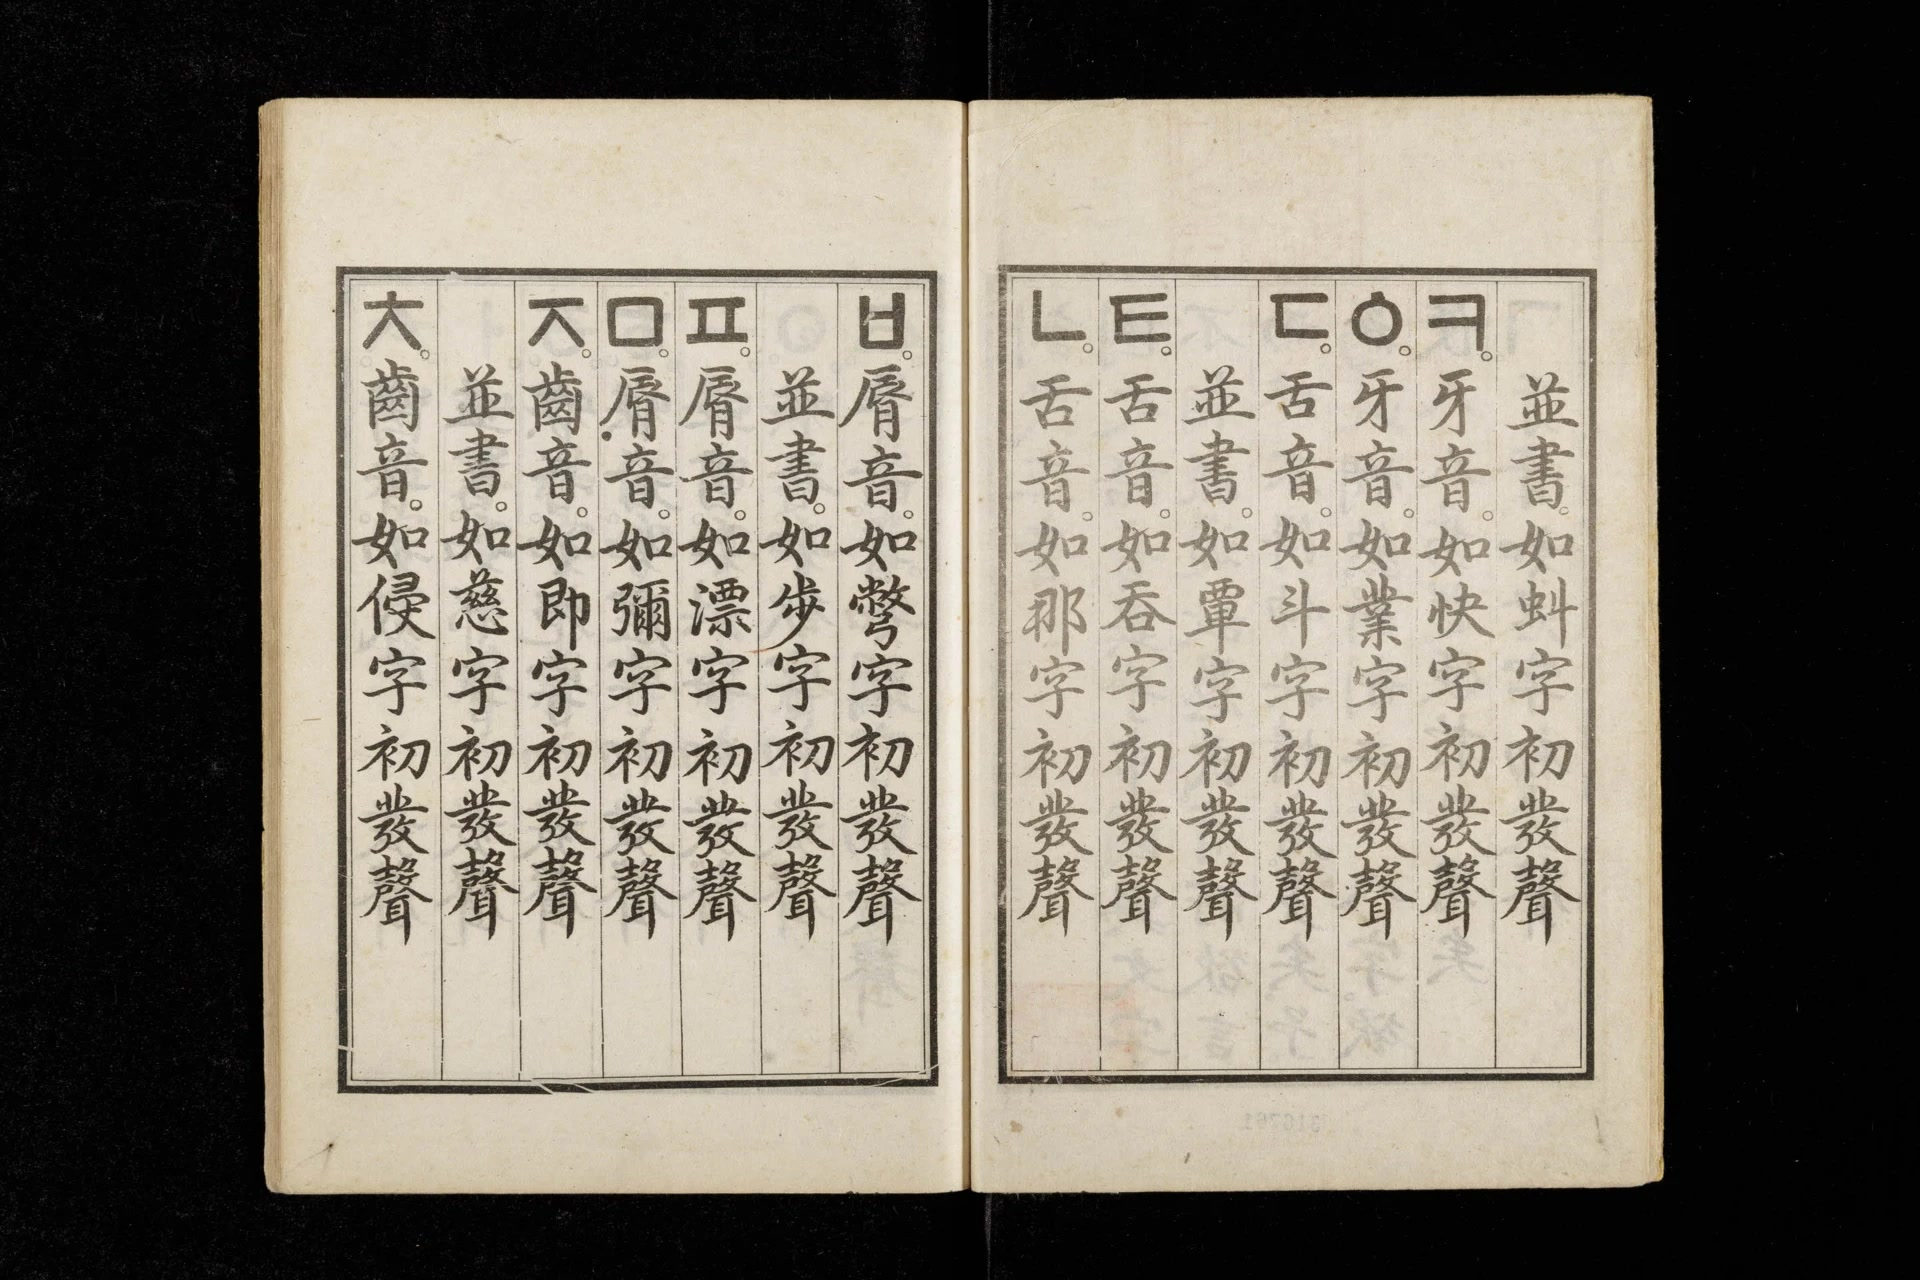
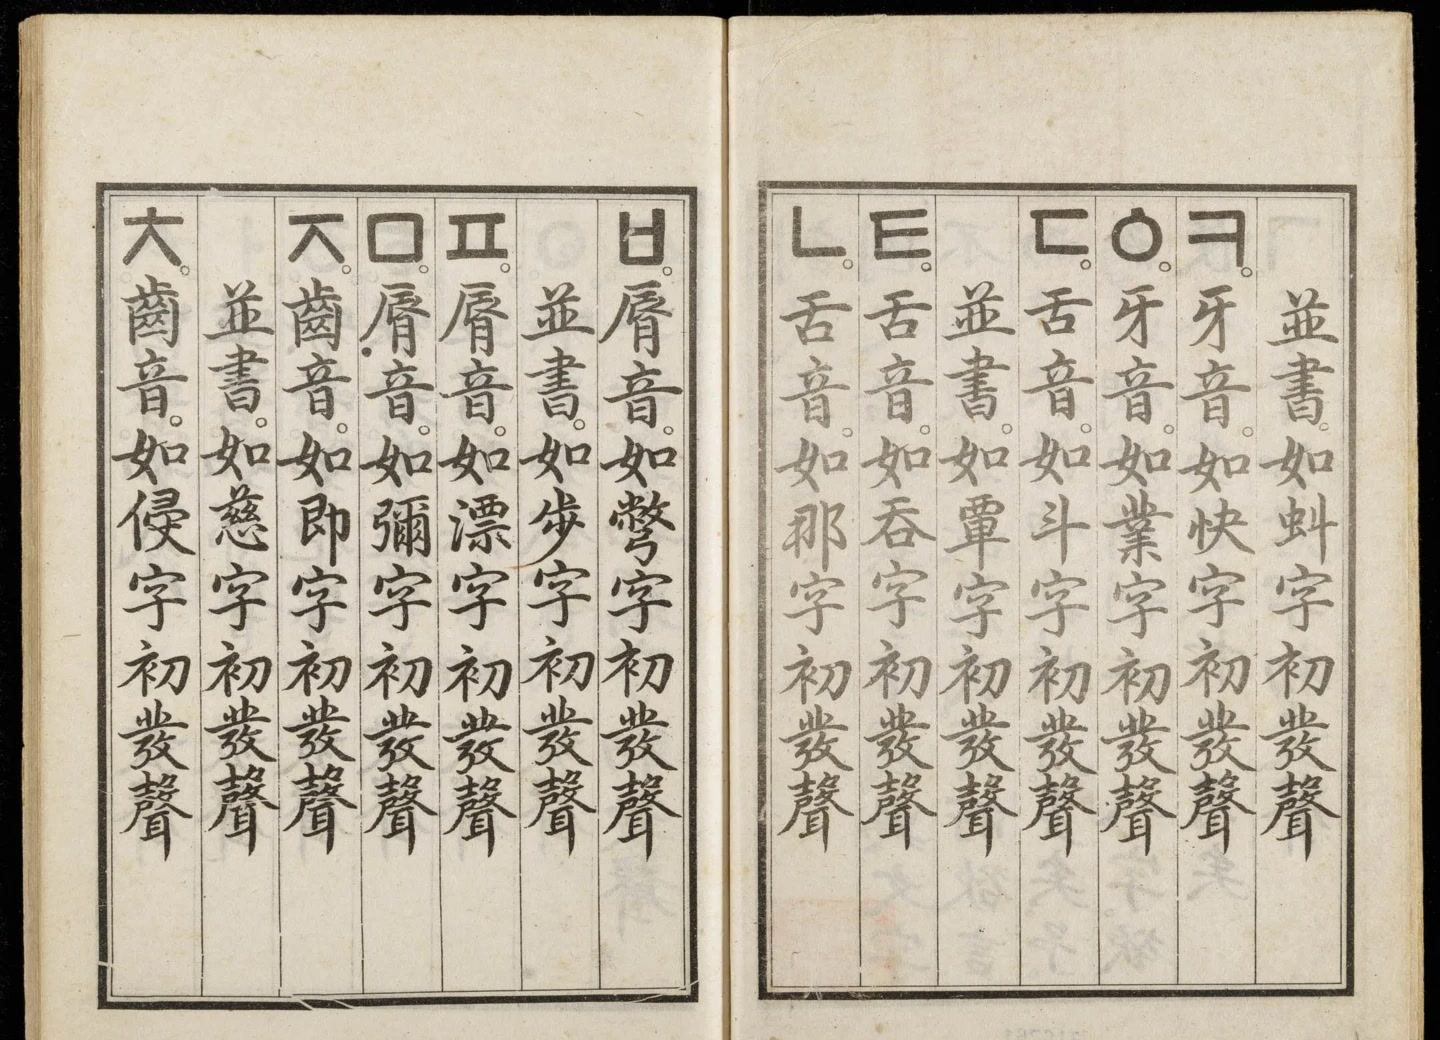
Add remaining images and credits; objects leave after their beat and return as linked thumbnails in the closing shot
Claude-Session: https://claude.ai/code/session_01CL8n9dwqe349YTdkKMM7j8

diff --git a/video/src/scene.js b/video/src/scene.js
@@ -155,22 +155,30 @@ const HEROES = [
   { kind: "stamp", text: "ANNEXED", t0: cue(10), beat: 10, hy: 0.6 },
   { kind: "circle", text: "1919", t0: cue(11) - 0.3, circle: cue(11), beat: 11, hy: 0.56 },
   { kind: "type", text: "JUNE 29, 1987", t0: wt(15, "june") - 0.05, beat: 15, hy: HY_LOW, width: 0.62 },
-  { kind: "word", text: "HAN KANG, 2024", t0: wt(16, "han") - 0.05, beat: 16, hy: HY_MID, width: 0.6, out: END - 0.9 },
+  { kind: "word", text: "HAN KANG, 2024", t0: wt(16, "han") - 0.05, beat: 16, hy: HY_MID, width: 0.6, out: END - 1.2 },
 ];
 // photos (black-and-white polaroids) and documents (paper) that drop onto the map where the story happens.
 // sx, sy: screen position (fractions) at the moment tRef; box: max display size in px at that moment.
 const OBJECTS = [
-  { img: "dolmen", kind: "polaroid", beat: 1, td: 3.0, sx: 0.5, sy: 0.6, box: [600, 400], rot: -2.5, caption: "GOJOSEON", capT: wt(1, "gojoseon") - 0.05 },
-  { img: "stele", kind: "polaroid", beat: 3, td: wt(3, "guang") - 0.1, sx: 0.5, sy: 0.6, box: [330, 440], rot: 2 },
-  { img: "jikji", kind: "polaroid", beat: 6, td: wt(6, "jeekji") - 0.1, sx: 0.5, sy: 0.6, box: [580, 420], rot: -2 },
-  { img: "gyeongbokgung", kind: "polaroid", beat: 7, td: wt(7, "joseon") - 0.2, sx: 0.44, sy: 0.6, box: [600, 400], rot: -3 },
-  { img: "hunminjeongeum", kind: "doc", beat: 8, td: b(8).start + 0.8, sx: 0.57, sy: 0.6, box: [820, 560], rot: 2, overlay: wt(8, "hangul") - 0.1 },
+  { img: "dolmen", kind: "polaroid", beat: 1, td: 3.0, sx: 0.5, sy: 0.6, box: [760, 500], rot: -2.5, caption: "GOJOSEON", capT: wt(1, "gojoseon") - 0.05 },
+  { img: "stele", kind: "polaroid", beat: 3, td: wt(3, "guang") - 0.1, sx: 0.5, sy: 0.6, box: [400, 520], rot: 2 },
+  { img: "jikji", kind: "polaroid", beat: 6, td: wt(6, "jeekji") - 0.1, sx: 0.5, sy: 0.6, box: [720, 500], rot: -2 },
+  { img: "gyeongbokgung", kind: "polaroid", beat: 7, td: wt(7, "joseon") - 0.2, sx: 0.5, sy: 0.6, box: [760, 500], rot: -3 },
+  { img: "hunminjeongeum", kind: "doc", beat: 8, td: b(8).start + 0.8, sx: 0.5, sy: 0.6, box: [860, 600], rot: 2, overlay: wt(8, "hangul") - 0.1 },
   { img: "annexation_treaty", kind: "doc", beat: 10, td: b(10).start + 0.7, sx: 0.5, sy: 0.6, box: [820, 560], rot: -1.5 },
   { img: "declaration", kind: "doc", beat: 11, td: b(11).start + 0.35, sx: 0.5, sy: 0.56, box: [1100, 520], rot: 1, overlay: cue(11) - 0.3 },
   { img: "armistice", kind: "doc", beat: 13, td: wt(13, "armistice") - 0.15, sx: 0.5, sy: 0.6, box: [480, 600], rot: 1.5 },
-  { img: "expressway", kind: "polaroid", beat: 14, td: b(14).start + 0.9, sx: 0.5, sy: 0.6, box: [600, 400], rot: -2, tRef: (b(14).start + b(14).end) / 2 },
+  { img: "expressway", kind: "polaroid", beat: 14, td: b(14).start + 0.9, sx: 0.5, sy: 0.6, box: [760, 500], rot: -2, tRef: (b(14).start + b(14).end) / 2 },
 ];
 for (const o of OBJECTS) o.t1 = b(o.beat).end + 0.5;
+// closing shot: screen position (at the last frame) and the story place each thumbnail links to
+const PL = { ganghwa: [126.49, 37.75], jian: [126.19, 41.13], kaesong: [126.55, 37.97], seoul: [126.98, 37.57] };
+const FINAL = {
+  stele: [0.16, 0.22, PL.jian], dolmen: [0.16, 0.45, PL.ganghwa], jikji: [0.16, 0.68, PL.kaesong], declaration: [0.33, 0.86, PL.seoul],
+  gyeongbokgung: [0.84, 0.22, PL.seoul], hunminjeongeum: [0.84, 0.42, PL.seoul], annexation_treaty: [0.84, 0.62, PL.seoul],
+  expressway: [0.84, 0.83, PL.seoul], armistice: [0.66, 0.86, PL.kaesong],
+};
+const FINAL_T0 = END - 1.65; // as the last hero fades
 for (const h of HEROES) h.t1 = h.out ?? (b(h.beat).end + 0.5);
 const objLive = (o, t) => clamp((t - o.td) / 0.25) * (1 - smooth((t - (o.t1 - 0.45)) / 0.45));
 const heroAlpha = (h, t) => clamp((t - h.t0) / 0.25) * (1 - smooth((t - (h.t1 - 0.45)) / 0.45));
@@ -232,6 +240,11 @@ function drawClip(g, x, y) { // a steel paper clip over the top edge
   g.beginPath(); g.moveTo(7, 88); g.lineTo(7, 16); g.stroke();
   g.restore();
 }
+function anchorFinal(o, i) {
+  const [fx, fy, place] = FINAL[o.img], cam = camera(FINAL_T0 + 0.9), z = W / cam[2];
+  o.fwx = cam[0] + (fx * W - W / 2) / z; o.fwy = cam[1] + (fy * H - H / 2) / z; o.fz = z;
+  o.fk = Math.min(210 / o.cw, 150 / o.ch); o.place = P(...place); o.ft = FINAL_T0 + i * 0.07;
+}
 function anchorObject(o) {
   const tr = o.tRef ?? (o.td + 0.6), cam = camera(tr), z = W / cam[2];
   o.wx = cam[0] + (o.sx * W - W / 2) / z; o.wy = cam[1] + (o.sy * H - H / 2) / z; o.zRef = z;
@@ -250,7 +263,7 @@ export function init() {
   }
   for (let i = 0; i < 46; i++) dust.push({ x: r() * W, y: r() * H, vx: (r() - 0.5) * 6, vy: -2 - r() * 5, s: 0.8 + r() * 2.2, a: 0.05 + r() * 0.16, ph: r() * 6.28, par: 0.08 + r() * 0.2 });
   stampCanvas = makeStamp();
-  for (const o of OBJECTS) { prerenderObject(o); anchorObject(o); }
+  OBJECTS.forEach((o, i) => { prerenderObject(o); anchorObject(o); anchorFinal(o, i); });
 }
 
 function makeStamp() {
@@ -299,8 +312,8 @@ function drawObjects(g, t, cam, dim) {
   const zNow = W / cam[2];
   const rotCam = (0.14 * Math.PI / 180) * noise1(t + 23, 1.4, 2.8, 0.2);
   for (const o of OBJECTS) {
-    if (t < o.td) continue;
-    const p = easeOut((t - o.td) / 0.45), a = clamp((t - o.td) / 0.12);
+    if (t < o.td || t > o.t1) continue;
+    const p = easeOut((t - o.td) / 0.45), a = clamp((t - o.td) / 0.12) * (1 - smooth((t - (o.t1 - 0.45)) / 0.45));
     const [sx, sy] = toScreen(cam, t, o.wx, o.wy);
     const sc = zNow / o.zRef * (1 + 0.1 * (1 - p));
     g.save();
@@ -317,10 +330,31 @@ function drawObjects(g, t, cam, dim) {
       chars.forEach((c, i) => { const ci = clamp((t - o.capT - i * 0.045) / 0.2); if (ci > 0) { g.globalAlpha = a * ci; g.fillText(c, x, -o.ch / 2 + o.capY); } x += ws[i]; });
       g.globalAlpha = a;
     }
-    // darken objects that are not the current hero, and documents under a typed overlay
-    let shade = dim * (1 - objLive(o, t));
+    // darken documents under a typed overlay
+    let shade = 0;
     if (o.overlay) shade = Math.max(shade, 0.6 * clamp((t - o.overlay) / 0.3) * objLive(o, t));
     if (shade > 0.001) { g.globalAlpha = shade * 0.62; g.fillStyle = "rgb(8,20,30)"; g.fillRect(-o.cw / 2 - 2, -o.ch / 2 - 2, o.cw + 4, o.ch + 4); }
+    g.restore();
+  }
+}
+
+function drawFinal(g, t, cam) {
+  if (t < FINAL_T0) return;
+  const zNow = W / cam[2];
+  let heroDim = 0; for (const h of HEROES) heroDim = Math.max(heroDim, heroAlpha(h, t));
+  for (const o of OBJECTS) {
+    if (t < o.ft) continue;
+    const p = easeOut((t - o.ft) / 0.4), a = clamp((t - o.ft) / 0.2);
+    const [sx, sy] = toScreen(cam, t, o.fwx, o.fwy), [px, py] = toScreen(cam, t, ...o.place);
+    // red connector to the place, drawn on
+    const lp = easeOut((t - o.ft - 0.15) / 0.5);
+    if (lp > 0) { g.save(); g.strokeStyle = RED; g.globalAlpha = 0.75 * (1 - 0.6 * heroDim); g.lineWidth = 2; g.beginPath(); g.moveTo(sx, sy); g.lineTo(lerp(sx, px, lp), lerp(sy, py, lp)); g.stroke(); g.restore(); }
+    const sc = (zNow / o.fz) * o.fk * (1 + 0.15 * (1 - p));
+    g.save(); g.translate(sx, sy - 20 * (1 - p)); g.rotate(o.rot * Math.PI / 180); g.scale(sc, sc);
+    g.globalAlpha = a; g.shadowColor = "rgba(0,4,8,0.6)"; g.shadowBlur = 14 / sc * 0.5; g.shadowOffsetY = 6 / sc * 0.5;
+    g.drawImage(o.canvas, -o.cw / 2 - o.pad, -o.ch / 2 - o.pad, o.canvas.width / o.Q, o.canvas.height / o.Q);
+    g.shadowColor = "transparent";
+    if (heroDim > 0) { g.globalAlpha = 0.55 * heroDim; g.fillStyle = "rgb(8,20,30)"; g.fillRect(-o.cw / 2 - 2, -o.ch / 2 - 2, o.cw + 4, o.ch + 4); }
     g.restore();
   }
 }
@@ -410,6 +444,7 @@ function drawWorld(g, t) {
   const dim = dimAt(t);
   if (dim > 0) { g.fillStyle = `rgba(8,20,30,${0.5 * dim})`; g.fillRect(0, 0, W, H); }
   drawObjects(g, t, cam, dim);
+  drawFinal(g, t, cam);
 }
 
 function strokePartial(g, pts, s) {
